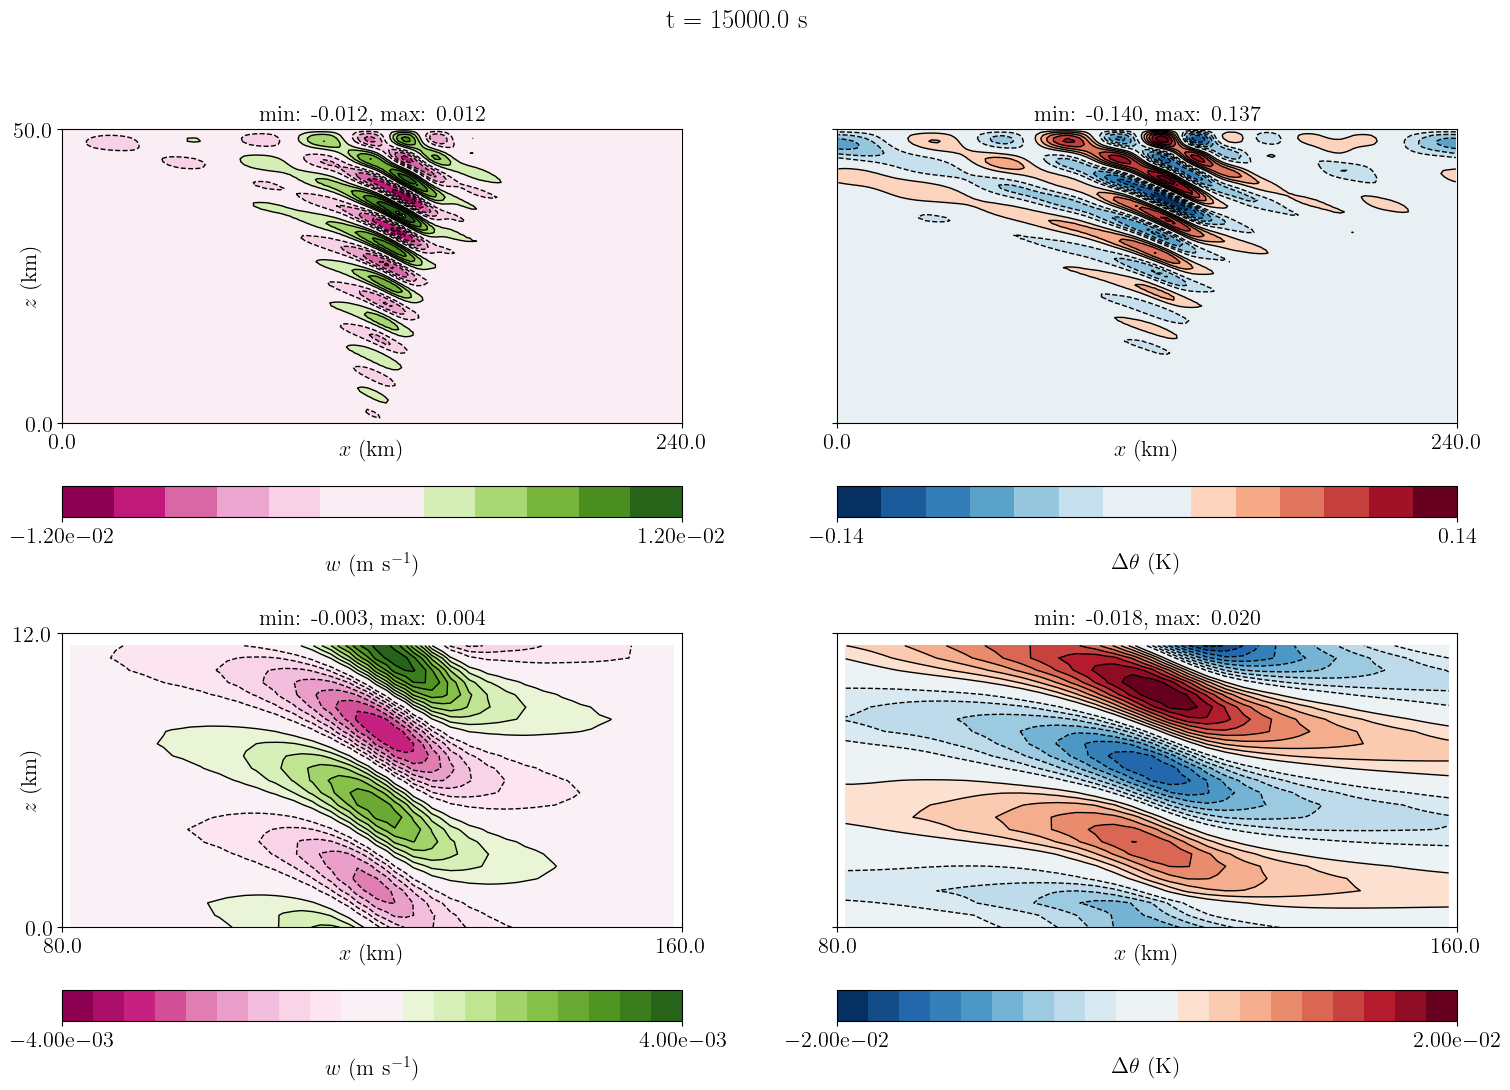
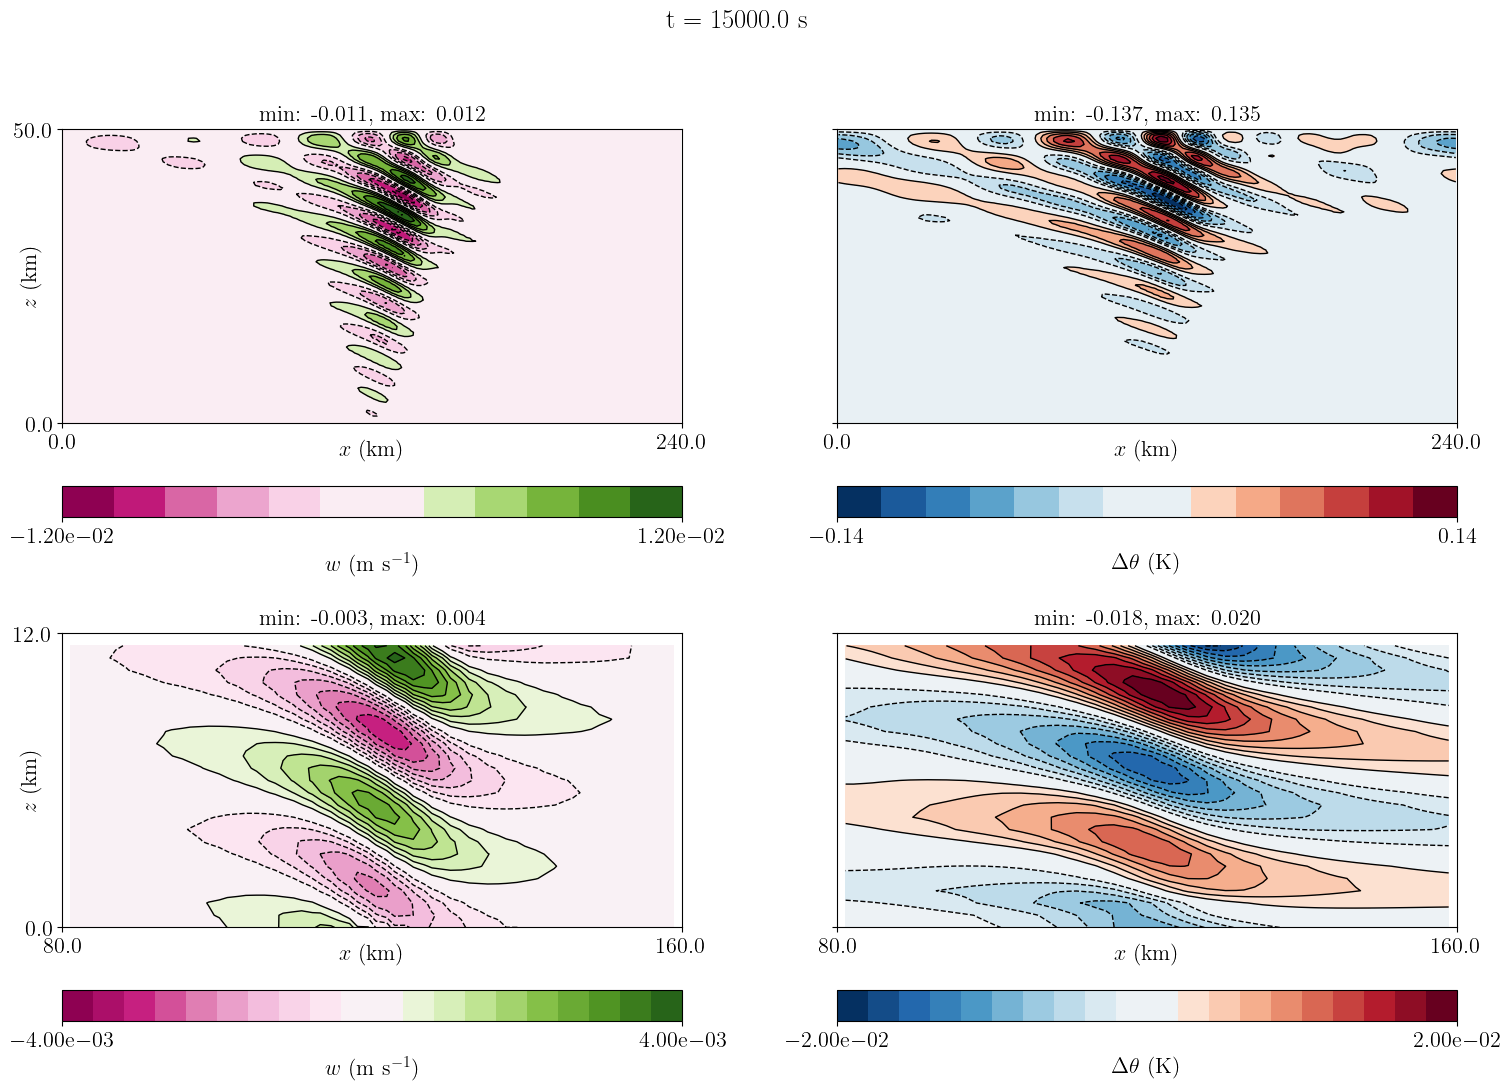
use DG1 for these mountains too

diff --git a/case_studies/compressible_euler/mountain_hydrostatic.py b/case_studies/compressible_euler/mountain_hydrostatic.py
@@ -87,8 +87,8 @@ def mountain_hydrostatic(
     # Used equispaced DG elements to describe the mountain to ensure that
     # the resulting profile is smooth
     cell = base_mesh.ufl_cell().cellname
-    hori_elt = FiniteElement('DG', cell, 2, variant='equispaced')
-    vert_elt = FiniteElement('DG', interval, 2, variant='equispaced')
+    hori_elt = FiniteElement('DG', cell, 1, variant='equispaced')
+    vert_elt = FiniteElement('DG', interval, 1, variant='equispaced')
     dg_elt = TensorProductElement(hori_elt, vert_elt)
     Vc = VectorFunctionSpace(ext_mesh, dg_elt)
 

diff --git a/case_studies/compressible_euler/mountain_nonhydrostatic.py b/case_studies/compressible_euler/mountain_nonhydrostatic.py
@@ -87,8 +87,8 @@ def mountain_nonhydrostatic(
     # Used equispaced DG elements to describe the mountain to ensure that
     # the resulting profile is smooth
     cell = base_mesh.ufl_cell().cellname
-    hori_elt = FiniteElement('DG', cell, 2, variant='equispaced')
-    vert_elt = FiniteElement('DG', interval, 2, variant='equispaced')
+    hori_elt = FiniteElement('DG', cell, 1, variant='equispaced')
+    vert_elt = FiniteElement('DG', interval, 1, variant='equispaced')
     dg_elt = TensorProductElement(hori_elt, vert_elt)
     Vc = VectorFunctionSpace(ext_mesh, dg_elt)
 